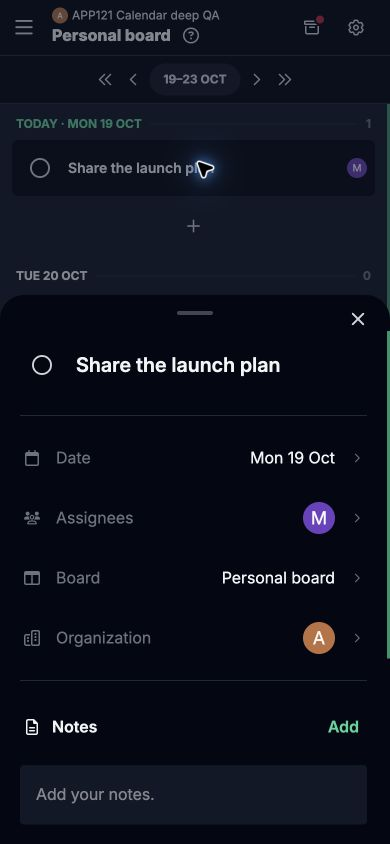
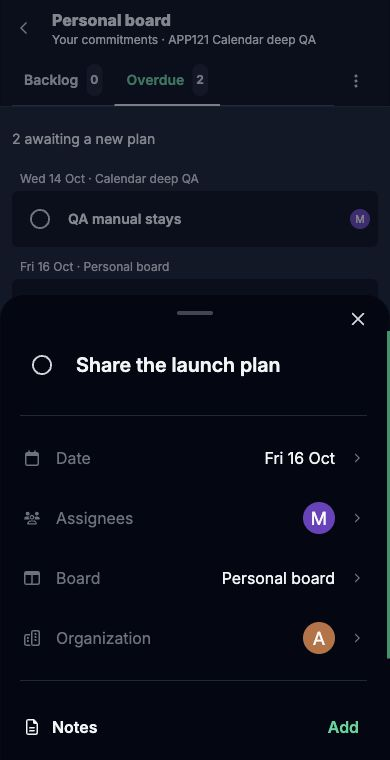
content: add cursor-free desktop and mobile media with GIF demos

diff --git a/.agents/skills/dailyboard-updates/SKILL.md b/.agents/skills/dailyboard-updates/SKILL.md
@@ -22,6 +22,7 @@ Use merged Dailyboard product PRs as the primary record; page through all result
 - Lead with user outcomes, explain where a feature is and how to use it.
 - Include a short agenda of one-sentence bullets; link highlights to their sections. A small change may be completely described in its bullet.
 - Highlights have useful detail and real screenshots or short GIFs showing the released interaction on fictional/demo data. Do not substitute proposed designs or generated screenshots for the application. Record capture environment and limitations. Avoid forcing a screenshot for an invisible backend/process improvement; illustrate a relevant user flow when useful.
+- Capture screenshots without the automation cursor or overlays; inspect the actual saved assets. Include desktop and mobile views for features available on both, and short GIF demonstrations of useful interactions. Use real captured states, record whether animation is a step sequence or continuous recording, and provide a static reduced-motion alternative.
 - Performance improvements always deserve consideration. Describe the concrete work and intended experience without unsupported speed claims or percentages.
 - Reliability work matters even when individual PRs are technical. Explain the collective effort to reduce recurring errors and detect/respond to new problems; do not claim zero bugs or instant guaranteed fixes. Include a concise fixes section, grouping low-level items as other bug fixes and improvements where appropriate.
 - Frequently requested features can be highlights even if technically small. Password recovery is such a feature; Kuba confirmed it works in production on October 19, 2026.
@@ -37,7 +38,7 @@ Use Slack mrkdwn and this structure:
 - Title: `*IT Review — <start date>–<end date>*`.
 - A short introduction stating the reporting period and scope.
 - One flat bullet list per initiative, using the actual Jira epic name; tasks without an epic go under `*Pozostałe*`. Include APP tasks closed during the interval and currently In Progress at the cutoff. Fetch current Jira status and epic membership; do not infer epic groups from PR themes. Label each item's status and give a concise one-sentence description with Jira and related PR links where available.
-- Include closed tasks without PR coverage for completeness, but identify them as cleanup/duplicates/abandoned scope where confirmed, or as lacking implementation evidence. Never imply they shipped. In Progress tasks are ongoing work, not released features. Public article selection remains based on PR/deployment evidence.
+- Exclude tasks closed as cleanup, duplicates or abandoned scope from IT Review (Kuba approved this filtered format on October 19). Closed tasks without PR evidence are presumed cleanup per his clarification; retain them only in source audit notes. Never imply they shipped. In Progress tasks are ongoing work, not released features. Public article selection remains based on PR/deployment evidence.
 - End by stating that the user update is prepared as a blog draft, with the existing article PR and preview links.
 
 Resume the existing report draft. Check history before delivery and record the destination and delivery state without treating a deleted report as the next edition's cutoff. A future change of destination requires current user authorization; the original #it request is superseded by this review pause.

diff --git a/docs/updates/2026-10-19-review.md b/docs/updates/2026-10-19-review.md
@@ -31,3 +31,9 @@ Public publication checkpoint remains unset until the actual article is publishe
 ## Review pause and revised internal format
 
 Kuba reported deleting the #it message and paused publication. Its acceptance remains historical evidence only; the internal cutoff was reset so the revised report retains the full interval. Current delivery is the source Slack thread via the bridge. The next internal draft must follow IT Review with dates, a short introduction, closed and In Progress APP tasks grouped by actual Jira epic (Pozostałe if none), and article PR/preview links. The old internal text is an earlier draft, not the approved format. Schedule remains inactive.
+
+## Media revision after review
+
+Re-captured mobile Inbox and details without the automation pointer inside the saved crop. Added a real desktop Inbox screenshot (1200×560). Added two 7.5-second looping GIFs assembled from three actual captured UI states each: desktop board → Backlog → Overdue, and mobile Overdue → details → expanded details. These are step-by-step demonstrations, not continuous video recordings. Frames captured through browser UI on localhost:3196 with existing synthetic QA data; no production writes. Pointer was parked below the crop, with no retouching or generated UI. Recovery screenshot was inspected and has no cursor. GIFs are in expandable sections with static reduced-motion alternatives.
+
+Internal IT Review format was approved with cleanup closures excluded; the skill now reflects that rule. #it publication and automation remain paused.
